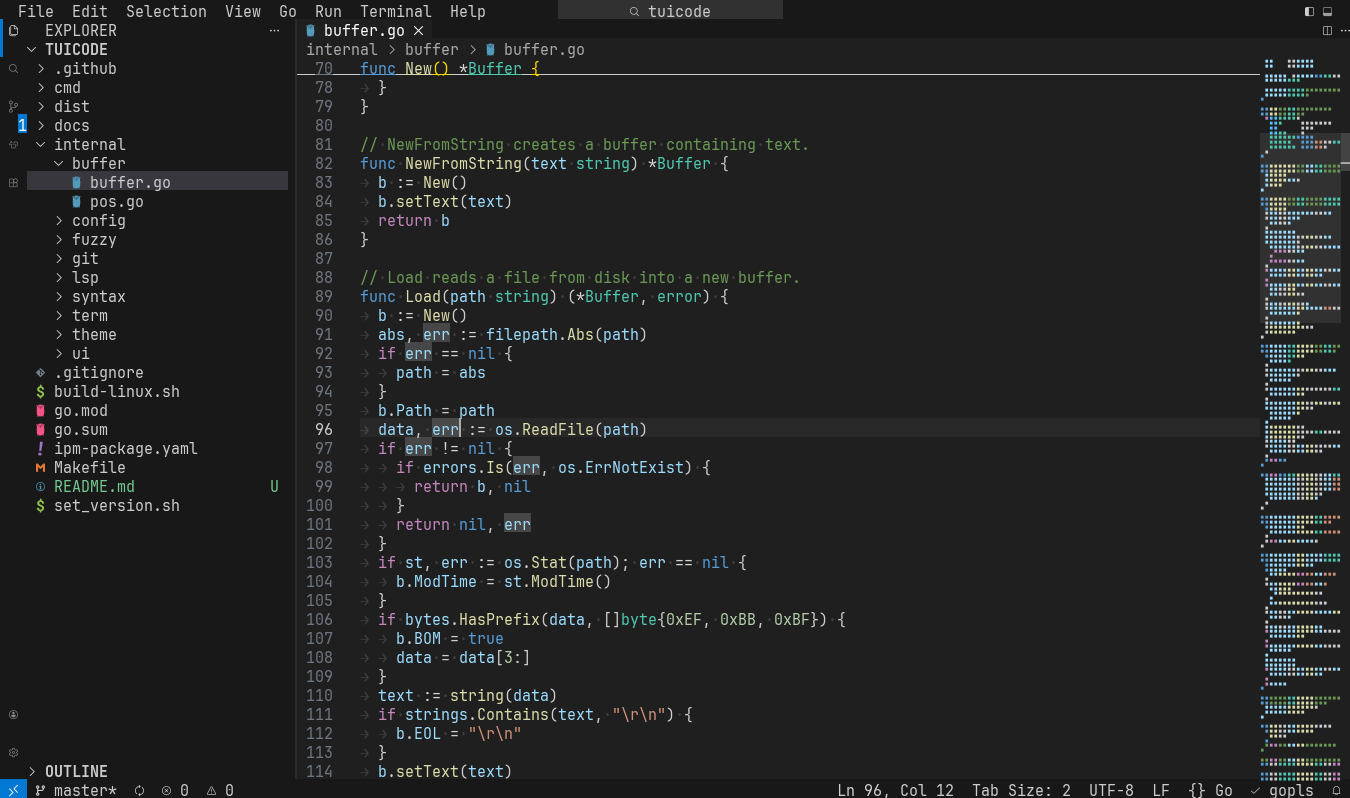
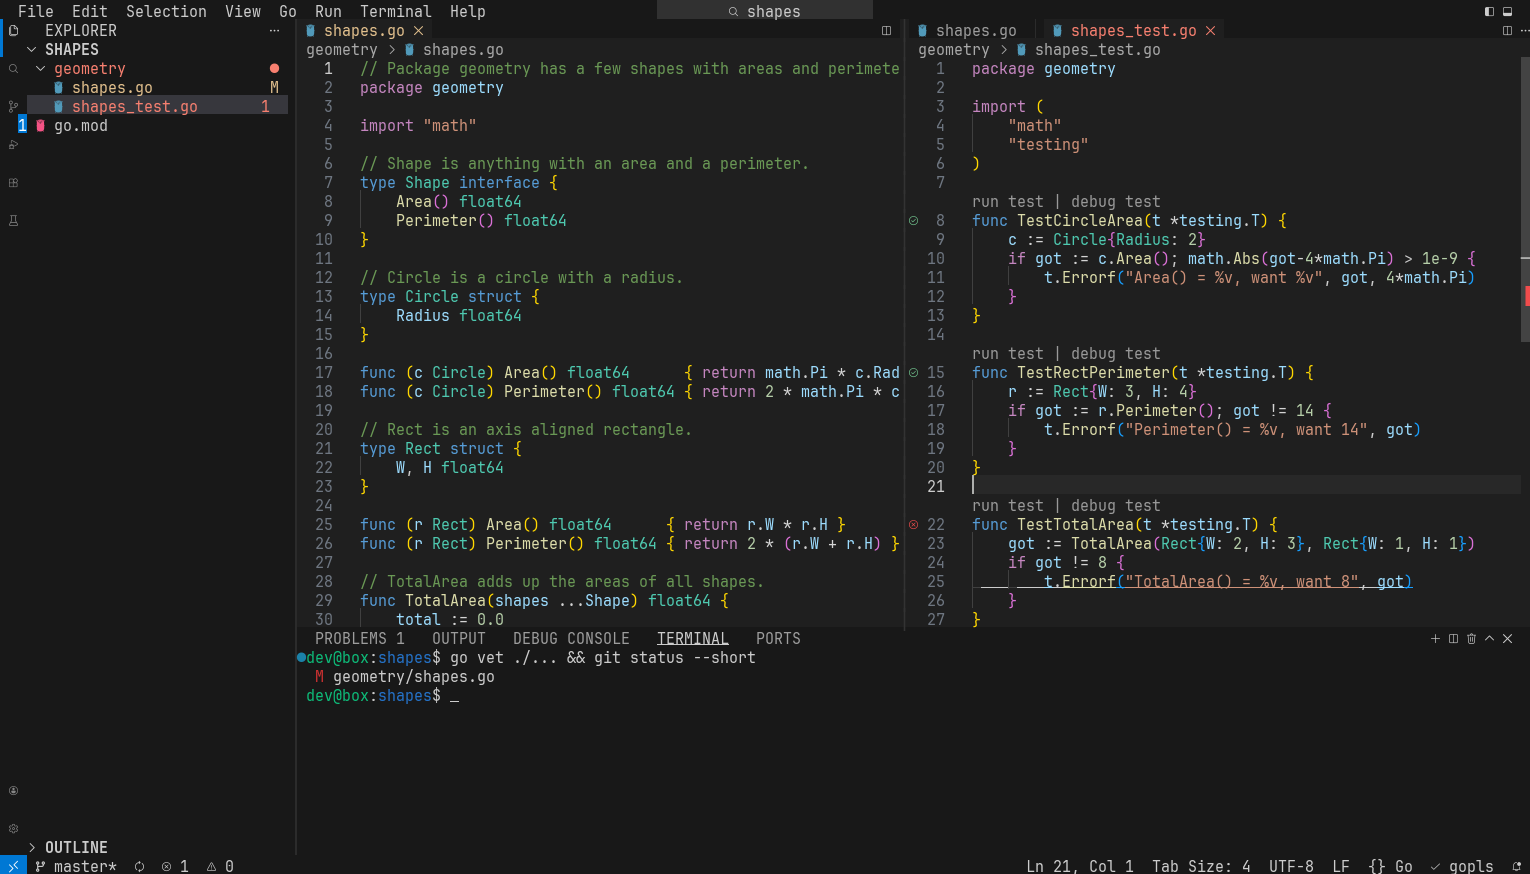
Refresh the README screenshot

diff --git a/internal/ui/shot_test.go b/internal/ui/shot_test.go
@@ -2,6 +2,7 @@ package ui
 
 import (
 	"os"
+	"os/exec"
 	"strings"
 	"time"
 
@@ -375,4 +376,54 @@ func TestScreenshotMerge(t *testing.T) {
 	h := newHarness(t, 140, 20, Options{Paths: []string{filepath.Join(dir, "main.go")}})
 	h.settle()
 	h.snapshot(filepath.Join(out, "merge.json"))
+}
+
+// TestScreenshotHero renders the README screenshot from TUI_HERO_DIR (a small Go project with tests).
+func TestScreenshotHero(t *testing.T) {
+	out, dir := os.Getenv("TUI_SHOT"), os.Getenv("TUI_HERO_DIR")
+	if out == "" || dir == "" || os.Getenv("TUI_LSP") == "" {
+		t.Skip("set TUI_SHOT, TUI_HERO_DIR and TUI_LSP")
+	}
+	_ = os.Chdir(dir)
+	// a clean home: default settings and a plain prompt, but the real Go caches for gopls
+	for _, k := range []string{"GOCACHE", "GOPATH", "GOMODCACHE"} {
+		if v, err := exec.Command("go", "env", k).Output(); err == nil {
+			t.Setenv(k, strings.TrimSpace(string(v)))
+		}
+	}
+	home := t.TempDir()
+	t.Setenv("HOME", home)
+	_ = os.WriteFile(filepath.Join(home, ".bashrc"), []byte("PS1='\\[\\e[32m\\]dev@box\\[\\e[0m\\]:\\[\\e[34m\\]\\W\\[\\e[0m\\]$ '\n"), 0o644)
+	t.Setenv("SHELL", "/bin/bash")
+	h := newHarness(t, 170, 46, Options{Paths: []string{dir}})
+	h.a.closeAllEditors()
+	h.a.OpenFile(filepath.Join(dir, "geometry", "shapes.go"), false)
+	h.a.splitEditor()
+	v := h.a.OpenFile(filepath.Join(dir, "geometry", "shapes_test.go"), false)
+	for i := 0; i < 100 && (v.doc.semSpans == nil || len(v.lenses) == 0 && false); i++ {
+		time.Sleep(100 * time.Millisecond)
+		h.flush()
+	}
+	h.a.explorer.reveal(filepath.Join(dir, "geometry", "shapes_test.go"), false)
+	h.a.RunCommand("testing.runCurrentFile", nil)
+	for i := 0; i < 300 && h.a.testing.running != nil; i++ {
+		time.Sleep(50 * time.Millisecond)
+		h.flush()
+	}
+	for len(h.a.notifications) > 0 {
+		h.a.dismissNotification(h.a.notifications[0])
+	}
+	h.a.showPanel("terminal")
+	h.a.panelHeight = 12
+	ti := h.a.terminals.current()
+	time.Sleep(500 * time.Millisecond)
+	ti.t.WriteInput([]byte("go vet ./... && git status --short\r"))
+	time.Sleep(1500 * time.Millisecond)
+	h.a.activeGroup = 1
+	v.SetCursor(buffer.Pos{Line: 20, Col: 10})
+	h.a.focusEditor()
+	h.settle()
+	h.snapshot(filepath.Join(out, "hero.json"))
+	h.a.terminals.closeAll()
+	h.a.lsp.ShutdownAll()
 }

diff --git a/README.md b/README.md
@@ -3,7 +3,7 @@
 Visual Studio Code, but it lives in your terminal. Same layout, same shortcuts, same themes, same muscle memory. No Electron was harmed in the making of this editor.
 
 ![tuicode](docs/screenshot.png)
-<sup>tuicode with gopls, Dark Modern and the Seti file icons</sup>
+<sup>Go with gopls in a split editor: test results in the gutter, run/debug lenses, git decorations and the integrated terminal with shell integration</sup>
 
 ## Key Features
 
